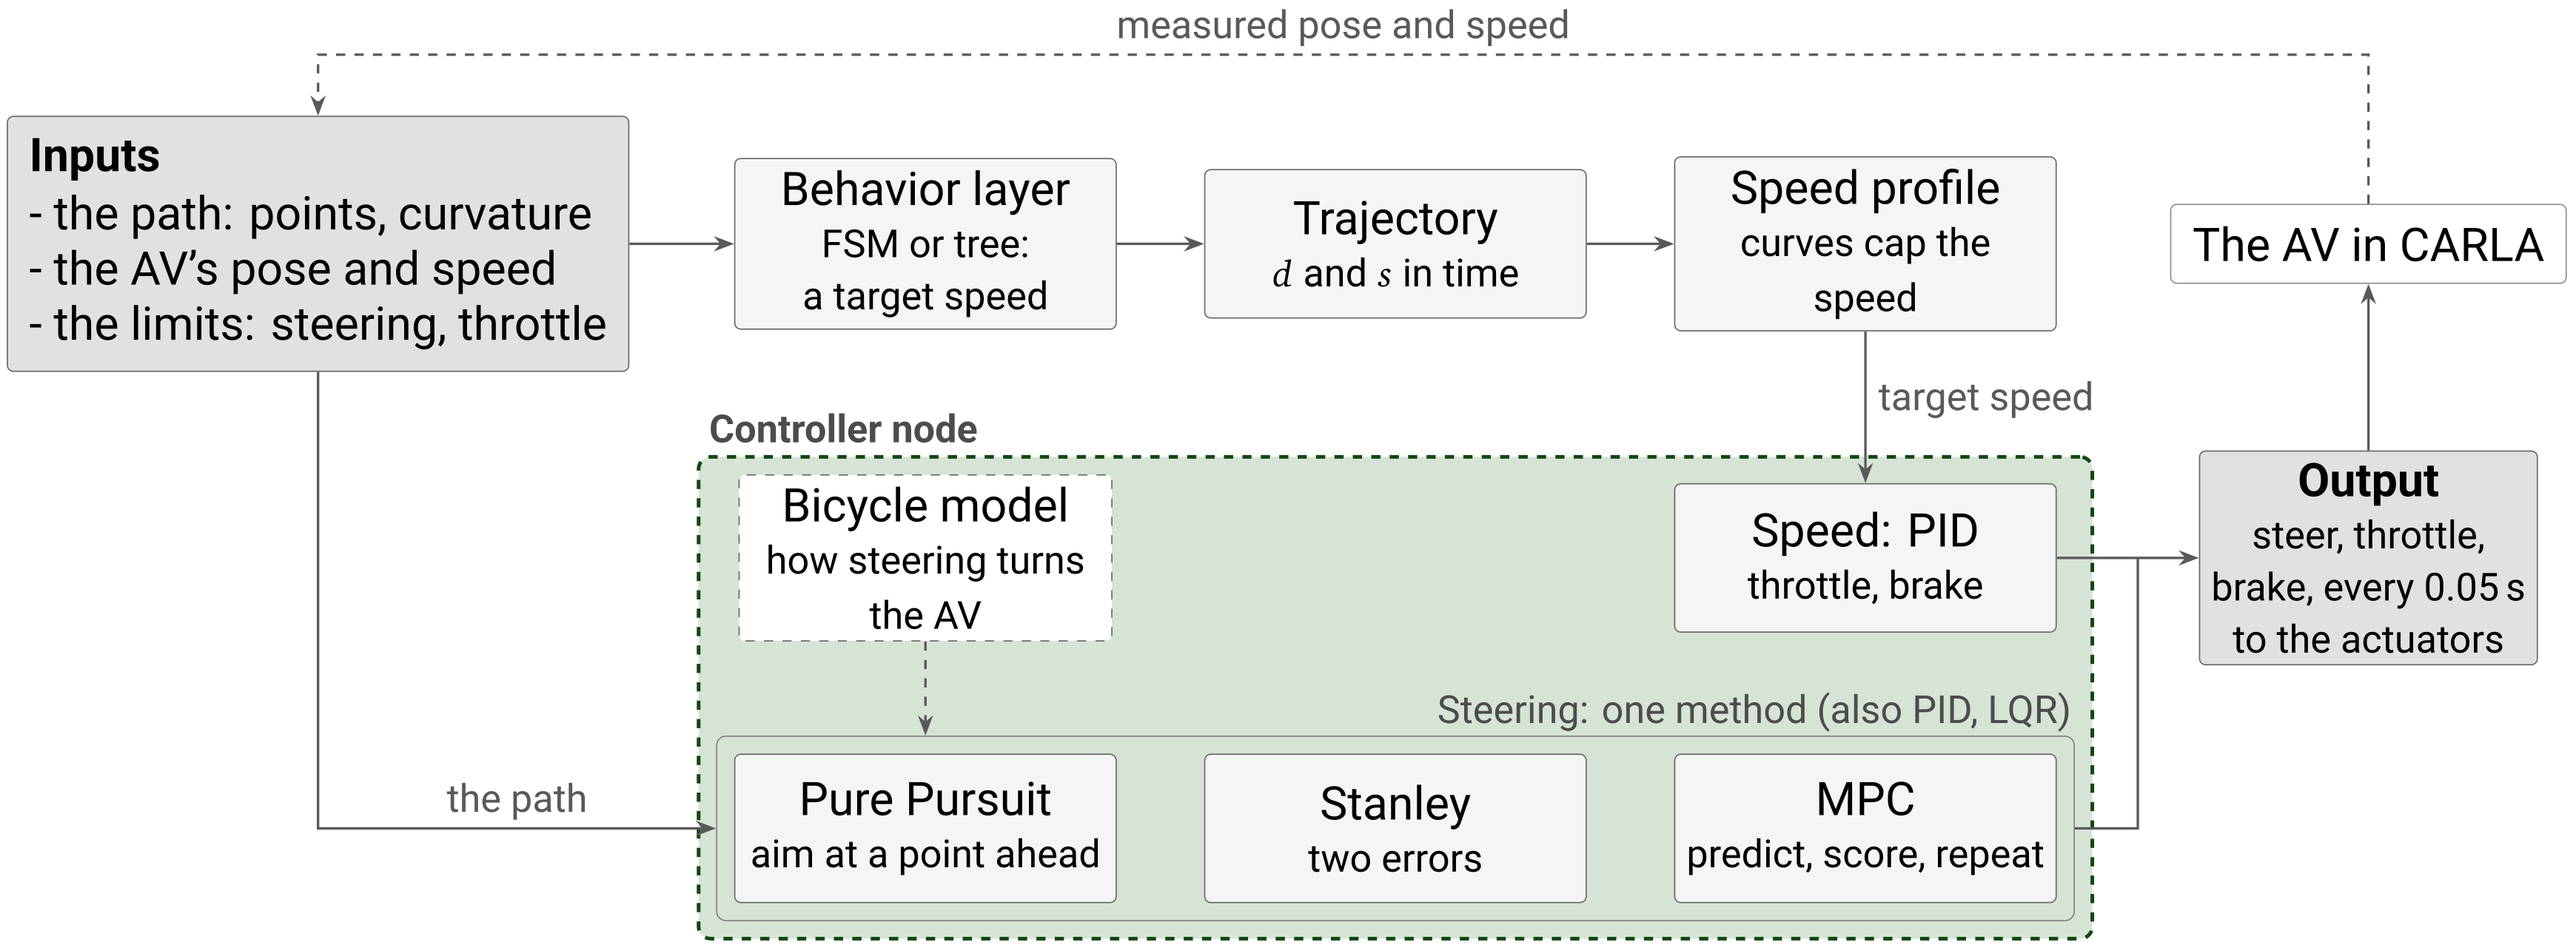
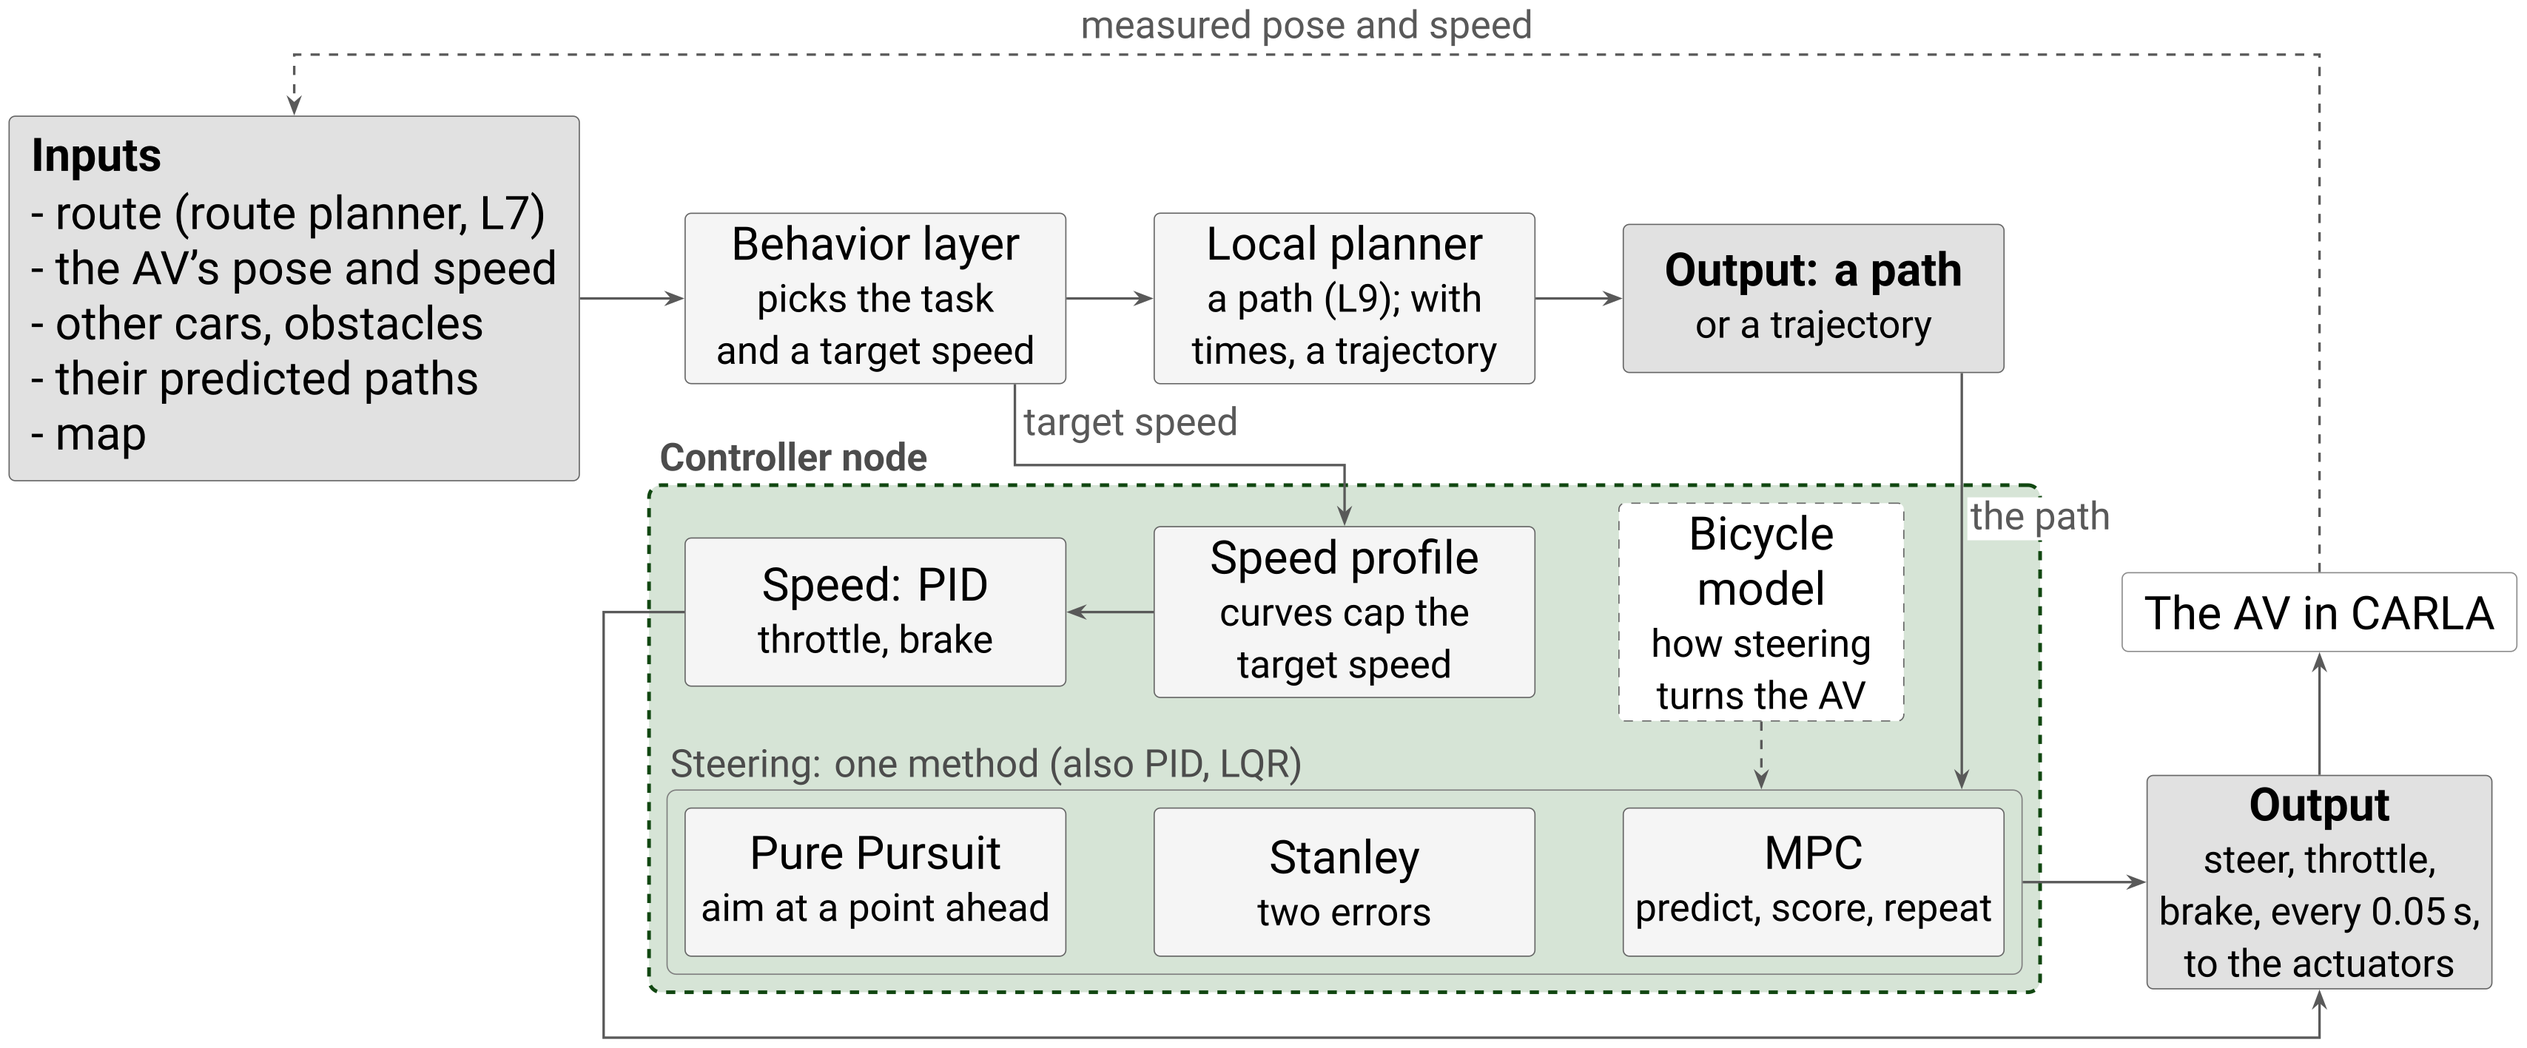
L10 flowchart corrected: L9's boxes; the planner's path and the target speed go to the controller node

diff --git a/docs/source/lectures/lecture10/l10_lecture.rst b/docs/source/lectures/lecture10/l10_lecture.rst
@@ -550,7 +550,7 @@ section's divider shows it again with that box highlighted, and the boxes
 link to their sections.
 
 .. figure:: /_static/images/L10/l10_pipeline.png
-   :alt: The lecture's flowchart. Top row: the inputs (the path with its points and curvature, the AV's pose and speed, the limits), then the behavior layer (an FSM or a tree picks a target speed), the trajectory (d and s in time) and the speed profile (curves cap the speed). Below, a green dashed frame, the controller node: the bicycle model (how steering turns the AV, dashed), the speed PID (throttle, brake), fed the target speed from the speed profile, and a row of three steering methods, one of which is used (the section also covers PID and LQR): Pure Pursuit, Stanley, MPC, fed the path from the inputs; the bicycle model points down to them. Both loops lead to the output (steer, throttle, brake, every 0.05 s, to the actuators), which goes to the AV in CARLA; a dashed line takes the measured pose and speed back to the inputs. Each box links to its section.
+   :alt: The lecture's flowchart. Top row, as in L9: the inputs (the route from the route planner, L7; the AV's pose and speed; other cars and obstacles; their predicted paths; the map), the behavior layer (picks the task and a target speed), the local planner (a path, as in L9; with times, a trajectory) and its output, a path or a trajectory. Below, a green dashed frame, the controller node: the behavior layer's target speed goes into the speed profile (curves cap the target speed), which feeds the speed PID (throttle, brake); the path goes into a row of three steering methods, one of which is used (the section also covers PID and LQR): Pure Pursuit, Stanley, MPC; a dashed bicycle model (how steering turns the AV) points down to them. The steering methods and the PID lead to the output (steer, throttle, brake, every 0.05 s, to the actuators), which goes to the AV in CARLA; a dashed line takes the measured pose and speed back to the inputs. Each box links to its section.
    :width: 100%
    :align: center
 
@@ -561,23 +561,21 @@ link to their sections.
 
    Each box is covered in one section of these notes.
 
-   - **Inputs** (gray): the path with its points and curvature, the AV's
-     pose and speed, the limits.
-   - **Behavior layer** (green, top row): an FSM or a tree picks a target
-     speed. See :ref:`l10-lec-behavior`.
-   - **Trajectory** and **Speed profile** (top row): :math:`d` and :math:`s`
-     in time, then curves that cap the speed. See
-     :ref:`l10-lec-trajectory`.
-   - **Controller node** (green dashed frame): the bicycle model (how
-     steering turns the AV), the speed PID, and a row of three steering
-     methods, Pure Pursuit, Stanley and MPC, one of which is used (the
-     section also covers PID and LQR on steering). These boxes are covered
-     later in the lecture.
-   - **Output** (gray): steer, throttle and brake, every 0.05 s, to the
-     actuators. See :ref:`l10-lec-control-interface`.
-   - A dashed line takes the measured pose and speed from the AV in CARLA
-     back to the inputs.
-
+   - **Top row, as in L9:** the inputs (the route from the route planner,
+     L7; the AV's pose and speed; other cars and obstacles; their predicted
+     paths; the map), the behavior layer, which picks the task and a target
+     speed, and the local planner. In L9 the local planner gave a path; in
+     :ref:`Trajectory Generation <l10-lec-trajectory>` it adds times, a
+     trajectory. Its output goes to the controller node.
+   - **Controller node** (green dashed frame), the node of this lecture: it
+     takes the path and the behavior layer's target speed. The speed profile
+     caps the target speed in the curves, and the speed PID holds it with
+     throttle and brake. One steering method follows the path: Pure Pursuit,
+     Stanley or MPC (the section also covers PID and LQR on steering). The
+     bicycle model (dashed) says how steering turns the AV.
+   - **Output:** steer, throttle and brake every 0.05 s, to the actuators,
+     then the AV in CARLA, whose measured pose and speed go back to the
+     inputs.
 
 .. _l10-lec-objectives:
 

diff --git a/docs/source/changelog/changelog.rst b/docs/source/changelog/changelog.rst
@@ -12,8 +12,11 @@ All notable changes to the ENPM818Z Fall 2026 course documentation are recorded 
 
    .. rubric:: Lectures
 
-   - **L10 flowchart:** the controller node sits lower, clear of the top
-     row; the section is now titled "From the Inputs to a Steering Command".
+   - **L10 flowchart, corrected:** it now uses L9's boxes. The behavior layer
+     and the local planner come first; the planner's path, and the behavior
+     layer's target speed, go to the controller node, which caps the speed
+     in the curves (the speed profile) and steers along the path. The
+     section is now titled "From the Inputs to a Steering Command".
    - **L10, Longitudinal Control and CARLA Implementation:** "In this
      section" lists only what the section covers in class.
 
